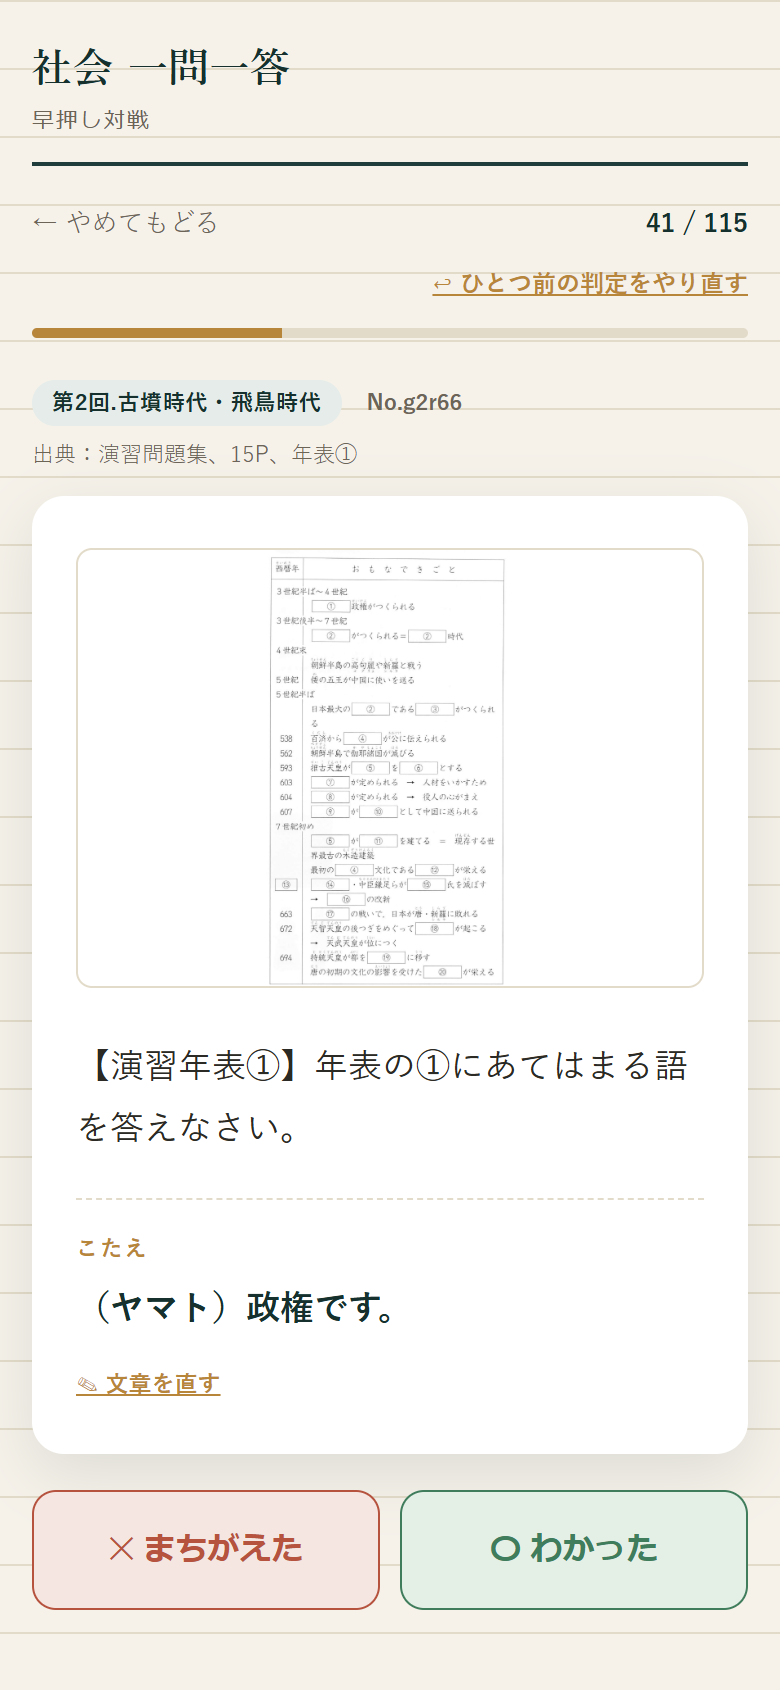
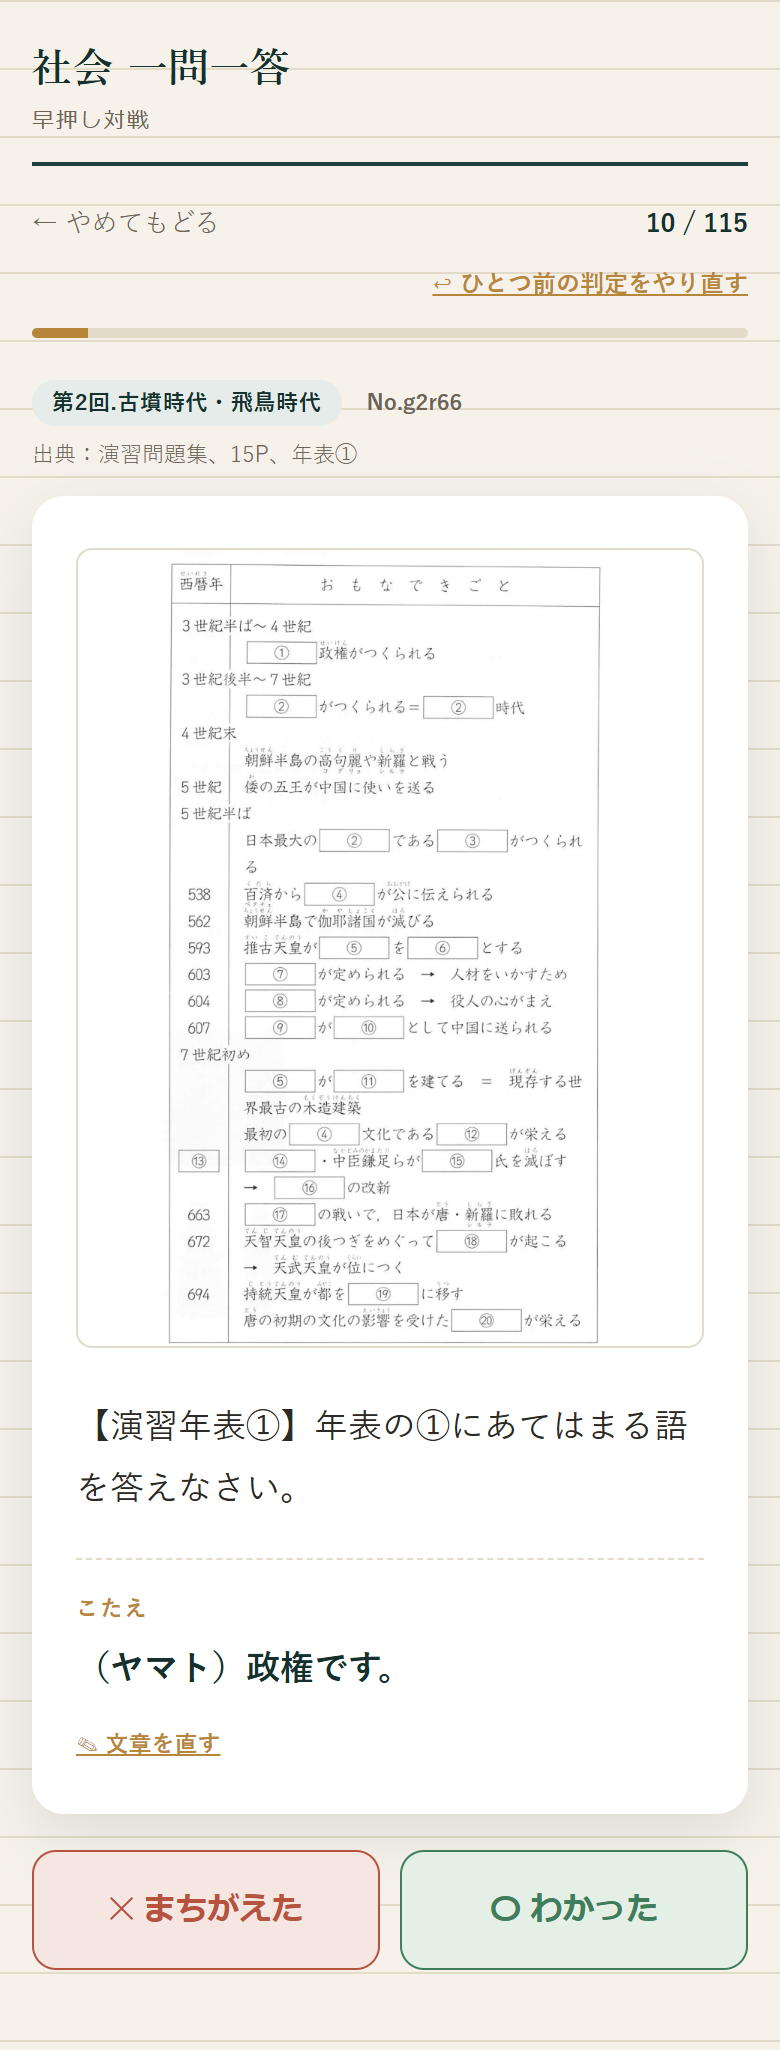
縦長の画像だけ枠を高くし、kaki2_73/74/81 の記号答えを消した
■ ★縦長の画像だけ枠を 220px → 400px に
前のコミットで object-fit:contain を入れたが、それだけでは
年表（1216×2126）が幅126pxにしかならず、「一目で年表に見える」に届かない。
→ `setImgWithSize` が縦横比を見て `.tall` を付け、CSS で縦長だけ高くする。
   横長は220pxのまま（困っていないので一律には上げない）。
   問題一覧側は行が伸びすぎないよう 280px に抑えた。
   ★一覧は HTML 文字列で <img> を組んでいるので、そこにも class を付けている。

実機（スマホ幅390px）で3種類を目で見た:
  年表 kai2_05(0.572) … 枠 312×398。①〜⑮まで一目で読める。大きく改善
  分県図 kaki_r3_map01(0.707) … 比が正しく、赤丸も見える
  横長 kaki_r2_graph06(1.866) … 220pxのまま無変更・全部読める
縦長と判定されるのは登録424種のうち184種。他の問のレイアウトは崩れていない。

■ kaki2_81（貨物輸送の円グラフ）
答えが（ウ・エ）の記号2つだった。
★直す方向を決めるのに重複を調べたところ、**kaki2_34〜37 が2022年の
各割合を1つずつ既に聞いていた**（55.7→自動車／39.7→船／4.4→鉄道／0.2→航空機）。
つまり「55.7％にふえたのは何か」と直すと kaki2_34 の焼き直しになる。
→ ★このグラフで聞かれていない唯一の中身は「1965年の姿」だったので、そこを聞く形に。
   「1965年に割合がいちばん大きかった交通機関は何ですか」→（船）
   sol に「1965年は船が43.3％、自動車は26.0％。いまは自動車が半分をこえている」を added。

■ kaki2_74（大規模な製鉄所）
記号4つ＋地図の番号4つで、答えが8個あった（A-8）。
→ 都市名だけを答えさせ、位置は答えに添えた（kaki6_105〜111 と同じ形）。
   115字 → 55字。

■ kaki2_73（石油化学コンビナート）
★もとの問題文は「工業地帯・地域の名をそれぞれ答えなさい」と聞いているのに、
答えにその名が1つも書かれていなかった（聞いたのに答えていない状態）。
→ 短い都市名8つから2つ選ぶ形にし（A-9: 短い単語なら並べてよい）、113字 → 51字。
★工業地帯の名は既に sol に入っていたので、答えには書かない
（両方に書くと、親が10秒で〇✕を付けるときに読む量が増えるだけ）。

■ 結果
★kaki2_* 81問で、答えが記号だけの問は **0問**になった。
verify_data 問題なし。smoke-test 12件成功。元データにも書き戻しずみ。

diff --git a/index.html b/index.html
@@ -460,6 +460,12 @@
     border:1px solid var(--paper-line);
     background:#fff;
   }
+  /* ★縦長の画像だけ、枠を高くする（setImgWithSize が .tall を付ける）。
+     220pxのままだと年表（1216×2126）が幅126pxにしかならず、
+     「一目で年表に見える」必要を満たせない。横長は220pxで足りている。 */
+  .img-wrap img.tall{
+    max-height:400px;
+  }
   /* ---- 問題文と答えは、データに入れた改行をそのまま出す。
          チャレンジ問題の引用など、選択肢ア〜エが並ぶ長い問題文が1行に潰れて
          スマホで読めなかったため。pre-wrap は連続スペースもそのまま出すが、
@@ -953,6 +959,9 @@
     border:1px solid var(--paper-line);
     background:#fff;
     cursor:zoom-in;
+  }
+  .list-item .list-img-wrap img.tall{
+    max-height:280px;   /* 一覧は行が長くなりすぎないよう、出題画面より控えめ */
   }
   .list-item .list-q{
     font-size:13.5px;
@@ -1895,10 +1904,19 @@ const APP_ID = 'kosukequiz-battle-hayaoshi-8f3d2a';
 const IMG_SIZES = {"img_01.jpg":[581,620],"img_02.jpg":[627,579],"img_03.jpg":[714,417],"img_04.jpg":[514,483],"img_05.jpg":[644,532],"img_06.jpg":[463,429],"img_07.jpg":[1156,446],"img_08.jpg":[573,586],"img_09.jpg":[506,198],"img_10.jpg":[497,146],"img_11.jpg":[503,499],"img_12.jpg":[518,578],"img_13.jpg":[746,621],"img_14.jpg":[713,567],"img_15.jpg":[658,628],"img_16.png":[642,589],"img_17.png":[535,597],"img_18.png":[510,295],"img_19.png":[1399,307],"img_20.png":[448,714],"img_21.png":[648,595],"img_22.png":[244,234],"img_23.jpg":[346,355],"img_24.jpg":[209,263],"img_25.jpg":[228,244],"kai1_01.jpg":[374,356],"kai1_02.jpg":[348,339],"kai1_03.jpg":[492,339],"kai1_04.jpg":[352,340],"kai1_05.jpg":[357,340],"kai1_06.jpg":[261,340],"kai1_07.jpg":[461,340],"kai1_08.jpg":[444,340],"kai1_09.jpg":[357,340],"kai1_10.jpg":[601,340],"kai1_11.jpg":[635,340],"kai1_12.jpg":[2019,1084],"kai1_13.jpg":[516,490],"kai1_14.jpg":[560,254],"kai1_15.jpg":[595,324],"kai1_17.jpg":[2028,783],"kai1_18.jpg":[2019,1084],"kai1_20.jpg":[2019,1084],"kai1_21.jpg":[2019,1084],"kai1_22.jpg":[595,569],"kai1_23.jpg":[595,569],"kai1_24.jpg":[2019,1084],"kai1_25.jpg":[595,569],"kai1_26.jpg":[595,569],"kai1_27.jpg":[700,508],"kai1_28.jpg":[951,720],"kai1_29.jpg":[2240,1180],"kai2_01.jpg":[697,350],"kai2_02.jpg":[769,524],"kai2_03.jpg":[529,297],"kai2_04.jpg":[529,313],"kai2_05.jpg":[1216,2126],"kai3_01.jpg":[530,460],"kai3_02.jpg":[680,460],"kai3_03.jpg":[700,460],"kai3_04.jpg":[675,330],"kai3_05.jpg":[2408,1775],"kai3_06.jpg":[1988,1222],"kaki_r1_01.jpg":[761,180],"kaki_r1_02.jpg":[761,206],"kaki_r1_03.jpg":[796,180],"kaki_r1_04.jpg":[761,179],"kaki_r1_05.jpg":[796,206],"kaki_r1_06.jpg":[830,214],"kaki_r1_07.jpg":[890,624],"kaki_r1_08.jpg":[430,380],"kaki_r1_map01.jpg":[1170,1210],"kaki_r1_map02.jpg":[1170,1210],"kaki_r1_map03.jpg":[1170,1210],"kaki_r1_map04.jpg":[1170,1210],"kaki_r1_map05.jpg":[1170,1210],"kaki_r1_map06.jpg":[1170,1210],"kaki_r1_map07.jpg":[1170,1210],"kaki_r1_map08.jpg":[1170,1210],"kaki_r1_map09.jpg":[1170,1210],"kaki_r1_map10.jpg":[1170,1210],"kaki_r1_map11.jpg":[1170,1210],"kaki_r1_map12.jpg":[1170,1210],"kaki_r1_map13.jpg":[1170,1210],"kaki_r1_map14.jpg":[1170,1210],"kaki_r1_map15.jpg":[1170,1210],"kaki_r2_graph01.jpg":[1215,1340],"kaki_r2_graph02.jpg":[1295,850],"kaki_r2_graph03.jpg":[1265,680],"kaki_r2_graph04.jpg":[1225,320],"kaki_r2_graph06.jpg":[1045,560],"kaki_r2_graph07.jpg":[700,870],"kaki_r2_map01.jpg":[1140,1090],"kaki_r2_map05.jpg":[1035,900],"kaki_r2_map07.jpg":[2315,1650],"kaki_r2_map08.jpg":[2315,1650],"kaki_r2_map09.jpg":[2315,1650],"kaki_r2_map10.jpg":[2315,1650],"kaki_r2_map11.jpg":[2315,1650],"kaki_r2_map12.jpg":[2315,1650],"kaki_r2_map13.jpg":[2315,1650],"kaki_r2_map14.jpg":[2315,1650],"kaki_r2_map15.jpg":[2315,1650],"kaki_r2_map16.jpg":[2315,1650],"kaki_r2_map17.jpg":[2315,1650],"kaki_r2_map18.jpg":[2315,1650],"kaki_r2_map19.jpg":[2315,1650],"kaki_r3_graph01.jpg":[1015,580],"kaki_r3_house01.jpg":[505,355],"kaki_r3_map01.jpg":[2415,3414],"kaki_r3_map02.jpg":[2415,3414],"kaki_r3_map03.jpg":[2415,3414],"kaki_r3_map04.jpg":[2415,3414],"kaki_r3_map05.jpg":[2415,3414],"kaki_r3_map06.jpg":[2415,3414],"kaki_r3_map07.jpg":[2415,3414],"kaki_r3_map08.jpg":[2415,3414],"kaki_r3_map09.jpg":[2415,3414],"kaki_r3_map10.jpg":[2415,3414],"kaki_r3_map11.jpg":[2415,3414],"kaki_r3_map12.jpg":[2415,3414],"kaki_r3_map13.jpg":[2415,3414],"kaki_r3_map14.jpg":[2415,3414],"kaki_r3_map15.jpg":[2415,3414],"kaki_r3_map16.jpg":[2415,3414],"kaki_r3_map17.jpg":[2415,3414],"kaki_r3_map18.jpg":[2415,3414],"kaki_r3_map19.jpg":[2415,3414],"kaki_r3_map20.jpg":[2415,3414],"kaki_r3_map21.jpg":[2415,3414],"kaki_r3_map22.jpg":[2415,3414],"kaki_r3_map23.jpg":[2415,3417],"kaki_r3_map24.jpg":[2415,3417],"kaki_r3_map25.jpg":[2415,3417],"kaki_r3_map26.jpg":[2415,3417],"kaki_r3_map27.jpg":[2415,3417],"kaki_r3_map28.jpg":[2415,3417],"kaki_r3_map29.jpg":[2415,3417],"kaki_r3_map30.jpg":[2415,3417],"kaki_r3_map31.jpg":[2415,3417],"kaki_r3_map32.jpg":[2415,3417],"kaki_r3_map33.jpg":[2415,3417],"kaki_r3_map34.jpg":[2415,3417],"kaki_r3_map35.jpg":[2415,3417],"kaki_r3_map36.jpg":[2415,3417],"kaki_r3_map37.jpg":[1265,910],"kaki_r3_shapes.jpg":[2315,480],"kaki_r4_graph01.jpg":[910,300],"kaki_r4_graph02.jpg":[760,200],"kaki_r4_map01.jpg":[1610,980],"kaki_r4_map02.jpg":[1610,1380],"kaki_r4_map03.jpg":[540,570],"kaki_r4_map04.jpg":[1480,1310],"kaki_r4_map05.jpg":[1480,1310],"kaki_r4_map06.jpg":[1480,1310],"kaki_r4_map07.jpg":[1480,1310],"kaki_r4_map08.jpg":[1480,1310],"kaki_r4_map09.jpg":[1480,1310],"kaki_r4_map10.jpg":[1480,1310],"kaki_r4_map11.jpg":[1480,1310],"kaki_r4_map12.jpg":[1480,1310],"kaki_r4_map13.jpg":[1480,1310],"kaki_r4_map14.jpg":[1480,1310],"kaki_r4_map15.jpg":[1480,1310],"kaki_r4_map16.jpg":[1480,1310],"kaki_r4_map17.jpg":[1480,1310],"kaki_r4_map18.jpg":[1480,1310],"kaki_r4_map19.jpg":[1480,1310],"kaki_r4_map20.jpg":[1480,1310],"kaki_r4_map21.jpg":[1480,1310],"kaki_r4_map22.jpg":[1480,1310],"kaki_r4_map23.jpg":[1480,1310],"kaki_r4_map24.jpg":[1480,1310],"kaki_r4_map25.jpg":[1630,1440],"kaki_r4_map26.jpg":[1630,1440],"kaki_r4_map27.jpg":[1630,1440],"kaki_r4_map28.jpg":[1630,1440],"kaki_r4_map29.jpg":[1630,1440],"kaki_r4_map30.jpg":[1630,1440],"kaki_r4_map31.jpg":[1630,1440],"kaki_r4_map32.jpg":[1630,1440],"kaki_r4_map33.jpg":[1630,1440],"kaki_r4_map34.jpg":[1630,1440],"kaki_r4_map35.jpg":[1630,1440],"kaki_r4_map36.jpg":[1630,1440],"kaki_r4_map37.jpg":[1630,1440],"kaki_r4_map38.jpg":[1630,1440],"kaki_r4_map39.jpg":[1630,1440],"kaki_r4_map40.jpg":[1630,1440],"kaki_r4_map41.jpg":[1630,1440],"kaki_r4_shapes01.jpg":[1470,520],"kaki_r4_shapes02.jpg":[1970,870],"kaki_r5_graph02.jpg":[610,665],"kaki_r5_graph05.jpg":[2105,343],"kaki_r5_map01.jpg":[1540,1550],"kaki_r5_map02.jpg":[1540,1550],"kaki_r5_map03.jpg":[1540,1550],"kaki_r5_map04.jpg":[1540,1550],"kaki_r5_map05.jpg":[1540,1550],"kaki_r5_map06.jpg":[1540,1550],"kaki_r5_map07.jpg":[1540,1550],"kaki_r5_map08.jpg":[1540,1550],"kaki_r5_map09.jpg":[1540,1550],"kaki_r5_map10.jpg":[1540,1550],"kaki_r5_map11.jpg":[1540,1550],"kaki_r5_map12.jpg":[1540,1550],"kaki_r5_map13.jpg":[1540,1550],"kaki_r5_map14.jpg":[1540,1550],"kaki_r5_map15.jpg":[1540,1550],"kaki_r5_map16.jpg":[1540,1550],"kaki_r5_map17.jpg":[1540,1550],"kaki_r5_map18.jpg":[1540,1550],"kaki_r5_map19.jpg":[1700,1740],"kaki_r5_map20.jpg":[1700,1740],"kaki_r5_map21.jpg":[1700,1740],"kaki_r5_map22.jpg":[1700,1740],"kaki_r5_map23.jpg":[1700,1740],"kaki_r5_map24.jpg":[1700,1740],"kaki_r5_map25.jpg":[1700,1740],"kaki_r5_map26.jpg":[1700,1740],"kaki_r5_map27.jpg":[1700,1740],"kaki_r5_map28.jpg":[1700,1740],"kaki_r5_map29.jpg":[1700,1740],"kaki_r5_map30.jpg":[1700,1740],"kaki_r5_map31.jpg":[1700,1740],"kaki_r5_map32.jpg":[540,600],"kaki_r5_shapes02.jpg":[800,635],"kaki_r5_shapes03.jpg":[460,480],"kaki_r5_table01.jpg":[1370,390],"kaki_r5_table02.jpg":[1170,580],"kaki_r6_graph01.jpg":[850,1005],"kaki_r6_map01.jpg":[1500,1320],"kaki_r6_map02.jpg":[1500,1320],"kaki_r6_map03.jpg":[1500,1320],"kaki_r6_map04.jpg":[1500,1320],"kaki_r6_map05.jpg":[1500,1320],"kaki_r6_map06.jpg":[1500,1320],"kaki_r6_map07.jpg":[1500,1320],"kaki_r6_map08.jpg":[1500,1320],"kaki_r6_map09.jpg":[1500,1320],"kaki_r6_map10.jpg":[1500,1320],"kaki_r6_map11.jpg":[1500,1320],"kaki_r6_map12.jpg":[1500,1320],"kaki_r6_map13.jpg":[1500,1320],"kaki_r6_map14.jpg":[1500,1320],"kaki_r6_map15.jpg":[1500,1320],"kaki_r6_map16.jpg":[1500,1320],"kaki_r6_map17.jpg":[1500,1320],"kaki_r6_map18.jpg":[1500,1320],"kaki_r6_map19.jpg":[1500,1320],"kaki_r6_map20.jpg":[1500,1320],"kaki_r6_map21.jpg":[1500,1320],"kaki_r6_map22.jpg":[1500,1320],"kaki_r6_map23.jpg":[1500,1320],"kaki_r6_map24.jpg":[1500,1320],"kaki_r6_map25.jpg":[1500,1320],"kaki_r6_map26.jpg":[1500,1320],"kaki_r6_map27.jpg":[1500,1320],"kaki_r6_map28.jpg":[1420,1480],"kaki_r6_map29.jpg":[1420,1480],"kaki_r6_map30.jpg":[1420,1480],"kaki_r6_map31.jpg":[1420,1480],"kaki_r6_map32.jpg":[1420,1480],"kaki_r6_map33.jpg":[1420,1480],"kaki_r6_map34.jpg":[1420,1480],"kaki_r6_map35.jpg":[1420,1480],"kaki_r6_map36.jpg":[1420,1480],"kaki_r6_map37.jpg":[1420,1480],"kaki_r6_map38.jpg":[1420,1480],"kaki_r6_map39.jpg":[1420,1480],"kaki_r6_map40.jpg":[1420,1480],"kaki_r6_map41.jpg":[1420,1480],"kaki_r6_map42.jpg":[1420,1480],"kaki_r6_map43.jpg":[1420,1480],"kaki_r6_map44.jpg":[1420,1480],"kaki_r6_map45.jpg":[1420,1480],"kaki_r6_map46.jpg":[1420,1480],"kaki_r6_map47.jpg":[1420,1480],"kaki_r6_map48.jpg":[750,845],"kaki_r6_map49.jpg":[600,700],"kaki_r6_table01.jpg":[2010,445],"kaki_r7_graph02.jpg":[720,340],"kaki_r7_map01.jpg":[1840,1620],"kaki_r7_map02.jpg":[1840,1620],"kaki_r7_map03.jpg":[1840,1620],"kaki_r7_map04.jpg":[1840,1620],"kaki_r7_map05.jpg":[1840,1620],"kaki_r7_map06.jpg":[1840,1620],"kaki_r7_map07.jpg":[1840,1620],"kaki_r7_map08.jpg":[1840,1620],"kaki_r7_map09.jpg":[1840,1620],"kaki_r7_map10.jpg":[1840,1620],"kaki_r7_map11.jpg":[1840,1620],"kaki_r7_map12.jpg":[1840,1620],"kaki_r7_map13.jpg":[1840,1620],"kaki_r7_map14.jpg":[1840,1620],"kaki_r7_map15.jpg":[1840,1620],"kaki_r7_map16.jpg":[1840,1620],"kaki_r7_map17.jpg":[1840,1620],"kaki_r7_map18.jpg":[1500,1620],"kaki_r7_map19.jpg":[1500,1620],"kaki_r7_map20.jpg":[1500,1620],"kaki_r7_map21.jpg":[1500,1620],"kaki_r7_map22.jpg":[1500,1620],"kaki_r7_map23.jpg":[1500,1620],"kaki_r7_map24.jpg":[1500,1620],"kaki_r7_map25.jpg":[1500,1620],"kaki_r7_map26.jpg":[1500,1620],"kaki_r7_map27.jpg":[1500,1620],"kaki_r7_map28.jpg":[1500,1620],"kaki_r7_map29.jpg":[1500,1620],"kaki_r7_map30.jpg":[1500,1620],"kaki_r7_map31.jpg":[1500,1620],"kaki_r7_map32.jpg":[1500,1620],"kaki_r7_map33.jpg":[1500,1620],"kaki_r7_map34.jpg":[1500,1620],"kaki_r7_map35.jpg":[1500,1620],"kaki_r7_map36.jpg":[680,550],"kaki_r7_table01.jpg":[1100,420],"kaki_r7_table02.jpg":[1730,890],"kaki_r8_map01.jpg":[1220,1720],"kaki_r8_map02.jpg":[1220,1720],"kaki_r8_map03.jpg":[1220,1720],"kaki_r8_map04.jpg":[1220,1720],"kaki_r8_map05.jpg":[1220,1720],"kaki_r8_map06.jpg":[1220,1720],"kaki_r8_map07.jpg":[1220,1720],"kaki_r8_map08.jpg":[1220,1720],"kaki_r8_map09.jpg":[1220,1720],"kaki_r8_map10.jpg":[1220,1720],"kaki_r8_map11.jpg":[1220,1720],"kaki_r8_map12.jpg":[1220,1720],"kaki_r8_map13.jpg":[1220,1720],"kaki_r8_map14.jpg":[1220,1720],"kaki_r8_map15.jpg":[1220,1720],"kaki_r8_map16.jpg":[1220,1720],"kaki_r8_map17.jpg":[1220,1720],"kaki_r8_map18.jpg":[1220,1720],"kaki_r8_map19.jpg":[1220,1720],"kaki_r8_map20.jpg":[1220,1720],"kaki_r8_map21.jpg":[1220,1720],"kaki_r8_map22.jpg":[1220,1720],"kaki_r8_map23.jpg":[1220,1720],"kaki_r8_map24.jpg":[1220,1720],"kaki_r8_map25.jpg":[1220,1720],"kaki_r8_map26.jpg":[1220,1720],"kaki_r8_map27.jpg":[1220,1720],"kaki_r8_map28.jpg":[1220,1720],"kaki_r8_map29.jpg":[1220,1720],"kaki_r8_map30.jpg":[1220,1720],"kaki_r8_map31.jpg":[1220,1720],"kaki_r8_map32.jpg":[1220,1720],"kaki_r8_map33.jpg":[1220,1720],"kaki_r8_map34.jpg":[1220,1720],"kaki_r8_map35.jpg":[1870,1560],"kaki_r8_map36.jpg":[1870,1560],"kaki_r8_map37.jpg":[1870,1560],"kaki_r8_map38.jpg":[1870,1560],"kaki_r8_map39.jpg":[1870,1560],"kaki_r8_map40.jpg":[1870,1560],"kaki_r8_map41.jpg":[1870,1560],"kaki_r8_map42.jpg":[1870,1560],"kaki_r8_map43.jpg":[1870,1560],"kaki_r8_map44.jpg":[1870,1560],"kaki_r8_map45.jpg":[1870,1560],"kaki_r8_map46.jpg":[1870,1560],"kaki_r8_map47.jpg":[1870,1560],"kaki_r8_map48.jpg":[1870,1560],"kaki_r8_map49.jpg":[1870,1560],"kaki_r8_map50.jpg":[1870,1560],"kaki_r8_map51.jpg":[1870,1560],"kaki_r8_map52.jpg":[1870,1560],"kaki_r8_map53.jpg":[1870,1560],"kaki_r8_map54.jpg":[1870,1560],"kaki_r8_map55.jpg":[1870,1560],"kaki_r8_map56.jpg":[1870,1560],"kaki_r8_map57.jpg":[1870,1560],"kaki_r8_map58.jpg":[640,630],"r1_01.jpg":[2188,900],"r1_02.jpg":[1130,1070],"r1_03.jpg":[1660,400],"r1_04.jpg":[476,377],"r1_05.jpg":[1299,625],"r1_06.jpg":[950,360],"r2_01.jpg":[1400,673],"r2_02.jpg":[1400,365],"r2_03.jpg":[1400,346],"r2_04.jpg":[1400,997],"r2_05.jpg":[1400,692],"r2_06.jpg":[1392,600],"r2_07.jpg":[1392,623],"r2_08.jpg":[1392,701],"r2_09.jpg":[1419,823],"r2_10.jpg":[1419,823],"r2_11.jpg":[1419,823],"r2_12.jpg":[1419,956],"r2_13.jpg":[1419,956],"r2_14.jpg":[1419,956],"r2_15.jpg":[1400,946],"r2_16.jpg":[1400,946],"r2_17.jpg":[1400,946],"r2_18.jpg":[1400,883],"r2_19.jpg":[1400,883],"r2_20.jpg":[1427,1895],"r2_21.jpg":[1427,1895],"r2_22.jpg":[1427,1895],"r2_23.jpg":[1427,1895],"r2_24.jpg":[1427,1895],"r2_25.jpg":[1427,1895],"r2_26.jpg":[1410,1983],"r2_27.jpg":[1410,1983],"r2_28.jpg":[1410,1983],"r2_29.jpg":[1410,1983],"r2_30.jpg":[1419,946],"r2_31.jpg":[1419,946],"r2_32.jpg":[1419,946],"r2_33.jpg":[1419,946],"r2_34.jpg":[1419,538],"r2_35.jpg":[1419,538],"r2_36.jpg":[1419,538],"r2_37.jpg":[1419,538],"r2_38.jpg":[1419,546],"r2_39.jpg":[1401,913],"r2_40.jpg":[1401,1937]};
 
 // 画像を差し替える際、幅・高さの属性も一緒に設定する（IMG_SIZESに無い画像はそのまま）
+// 縦長の画像は、横長と同じ高さの枠に入れると極端に細くなる。
+// 例: 年表 kai2_05.jpg は 1216×2126 なので、高さ220pxの枠では幅126pxしかない。
+// 「最初の一目で年表に見える」必要があるので、★縦長のときだけ枠を高くする。
+// 横長の画像は220pxのままで困っていないので、一律には上げない。
+function isTallImg(filename){
+  const sz = IMG_SIZES[filename];
+  return !!sz && sz[0] / sz[1] < 1;
+}
 function setImgWithSize(imgEl, filename){
   const sz = IMG_SIZES[filename];
   if(sz){ imgEl.width = sz[0]; imgEl.height = sz[1]; }
   else { imgEl.removeAttribute("width"); imgEl.removeAttribute("height"); }
+  imgEl.classList.toggle("tall", isTallImg(filename));
   imgEl.src = "images/"+filename;
 }
 
@@ -4065,7 +4083,7 @@ function renderListItems(){
       '</div>'+
       metaTagsHtml(d)+
       (d.note ? '<div class="list-source">出典：'+escapeHtml(d.note)+'</div>' : '')+
-      (d.img ? '<div class="list-img-wrap"><img src="images/'+escapeHtml(d.img)+'" alt="資料"'+(IMG_SIZES[d.img] ? ' width="'+IMG_SIZES[d.img][0]+'" height="'+IMG_SIZES[d.img][1]+'"' : '')+'></div>' : '')+
+      (d.img ? '<div class="list-img-wrap"><img class="'+(isTallImg(d.img)?'tall':'')+'" src="images/'+escapeHtml(d.img)+'" alt="資料"'+(IMG_SIZES[d.img] ? ' width="'+IMG_SIZES[d.img][0]+'" height="'+IMG_SIZES[d.img][1]+'"' : '')+'></div>' : '')+
       '<div class="list-q">'+escapeHtml(d.q)+'</div>'+
       '<div class="list-a">こたえ：'+escapeHtml(d.a)+'</div>'+
       (d.sol ? '<div class="list-sol">解説：'+escapeHtml(d.sol)+'</div>' : '')+

diff --git a/data.js b/data.js
@@ -8349,9 +8349,9 @@ const QA_DATA = [
   "id": "kaki2_73",
   "subj": "社会",
   "u": "夏期講習 復習編2.工業・資源・輸送機関",
-  "q": "石油化学コンビナートが位置している都市を次から2つ選んで、記号で答えなさい。また、それらの都市がふくまれる工業地帯・地域の名をそれぞれ答えなさい。ア　青森　イ　市原　ウ　長崎　エ　四日市　オ　静岡　カ　仙台　キ　千葉　ク　室蘭",
+  "q": "石油化学コンビナートがある都市を、青森・市原・長崎・四日市・静岡・仙台・千葉・室蘭から2つ答えなさい。",
   "note": "問題P、12P チャレンジ問題 問4",
-  "a": "（イ・市原、エ・四日市）です。",
+  "a": "（市原・四日市）です。",
   "priority": "中",
   "level": "発展",
   "sol": "市原は京葉工業地域、四日市は中京工業地帯にふくまれる。"
@@ -8360,9 +8360,9 @@ const QA_DATA = [
   "id": "kaki2_74",
   "subj": "社会",
   "u": "夏期講習 復習編2.工業・資源・輸送機関",
-  "q": "【地図】大規模な製鉄所がある都市を次から4つ選んで、記号で答えなさい。さらに、その位置をそれぞれ地図中の1〜9から選んで、番号で答えなさい。ア　東海　イ　いわき　ウ　浜松　エ　君津　オ　豊田　カ　倉敷　キ　福岡　ク　鹿嶋　ケ　鈴鹿",
+  "q": "【地図】大規模な製鉄所がある都市を、東海・いわき・浜松・君津・豊田・倉敷・福岡・鹿嶋・鈴鹿から4つ答えなさい。",
   "note": "問題P、12-13P チャレンジ問題 問5",
-  "a": "ア（東海）・6、エ（君津）・3、カ（倉敷）・8、ク（鹿嶋）・2です。",
+  "a": "（東海・君津・倉敷・鹿嶋）です。位置は地図の6・3・8・2です。",
   "img": "kaki_r2_map05.jpg",
   "priority": "中",
   "level": "発展"
@@ -8434,12 +8434,13 @@ const QA_DATA = [
   "id": "kaki2_81",
   "subj": "社会",
   "u": "夏期講習 復習編2.工業・資源・輸送機関",
-  "q": "【グラフ】グラフは、国内の貨物輸送の割合の変化を示しています。自動車にあてはまるものをグラフから2つ選んで、記号で答えなさい。",
+  "q": "【グラフ】国内の貨物輸送で、1965年に割合がいちばん大きかった交通機関は何ですか。",
   "note": "問題P、13P チャレンジ問題 問9",
-  "a": "（ウ・エ）です。",
+  "a": "（船）です。",
   "img": "kaki_r2_graph07.jpg",
   "priority": "低",
-  "level": "標準"
+  "level": "標準",
+  "sol": "1965年は船が43.3％でいちばん大きく、自動車は26.0％しかなかった。いまは自動車が半分をこえている。"
  },
  {
   "id": "kaki3_01",
